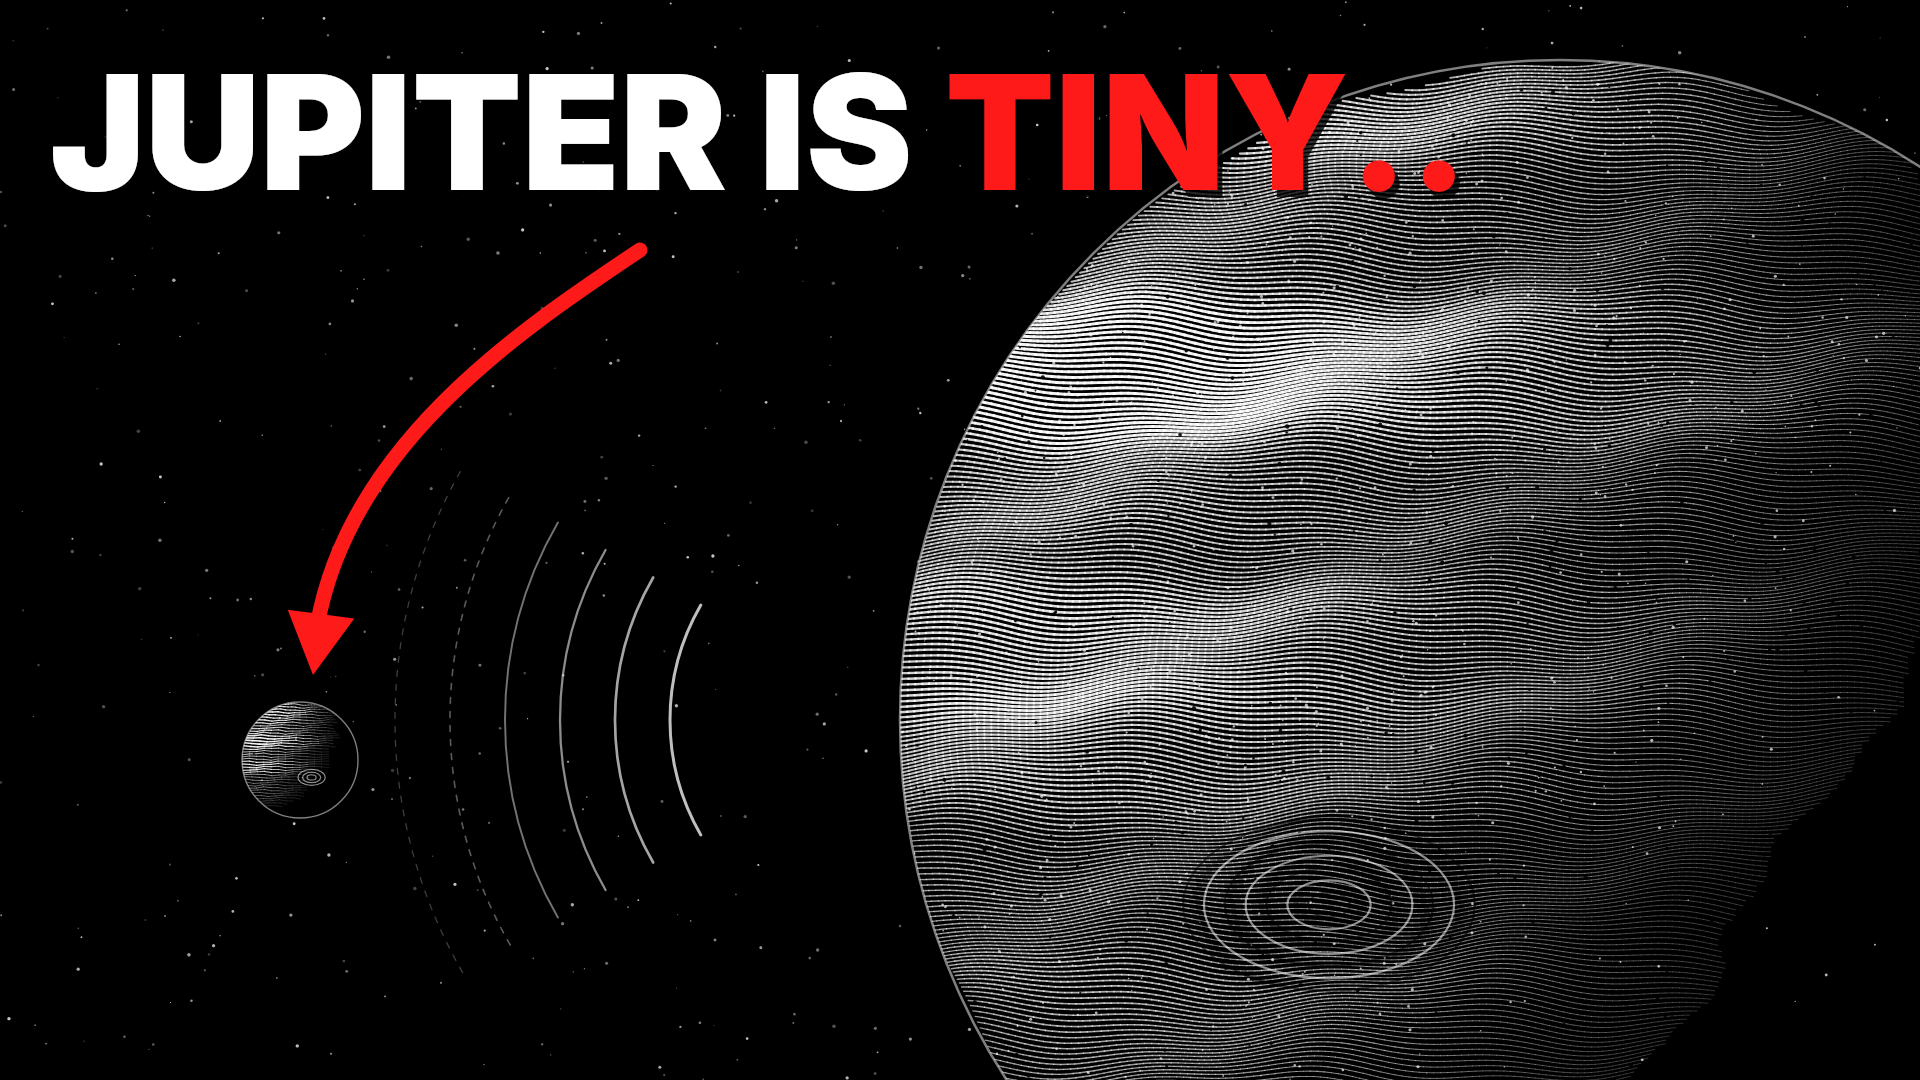
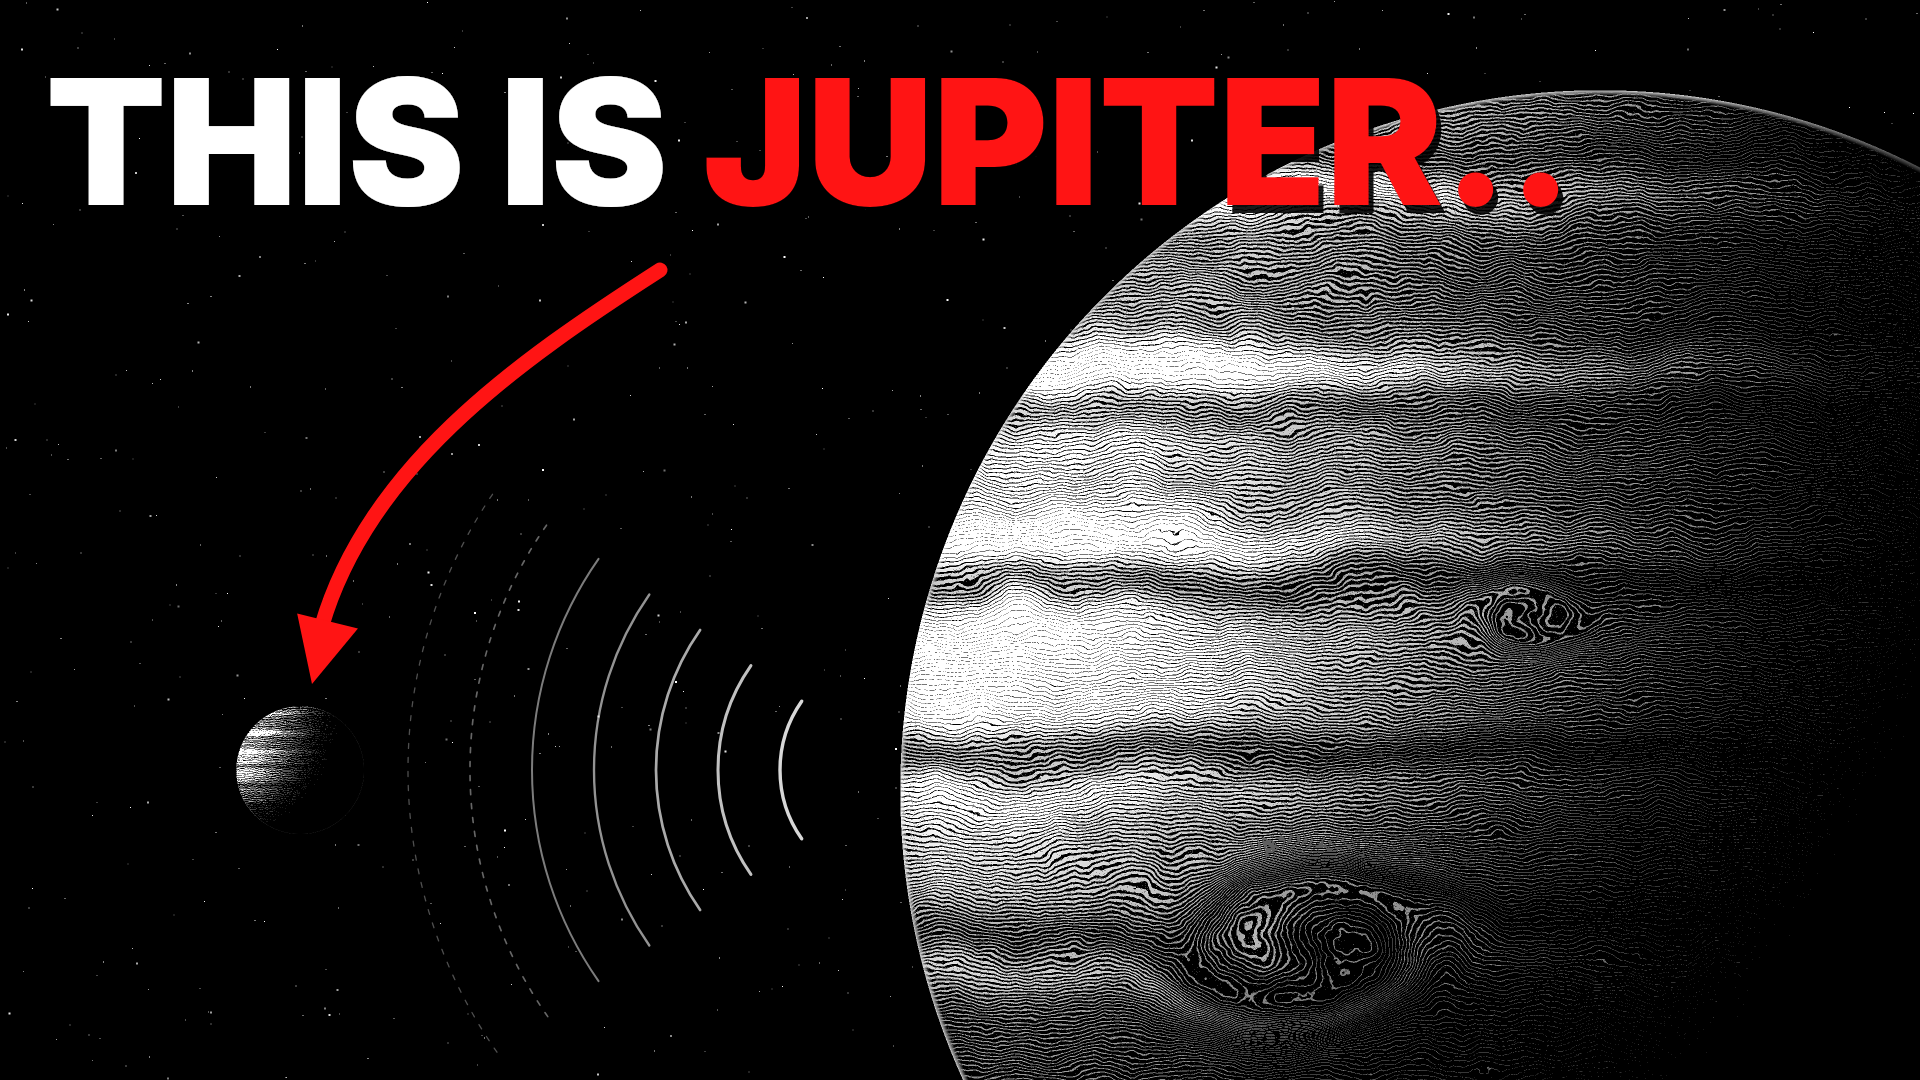
Thumbnail: black-and-white engraving style, THIS IS JUPITER.. headline
Claude-Session: https://claude.ai/code/session_018Px1zPA8yDwwfUeBmCF912

diff --git a/space/thumbnail_doc.py b/space/thumbnail_doc.py
@@ -1,137 +1,162 @@
-"""Thumbnail in black & white engraved style: giant planet vs tiny Jupiter.
+"""Thumbnail in black & white scratchboard-engraving style: giant planet vs tiny Jupiter.
+The planets are rendered as real line engravings: a shaded, turbulent planet is computed per pixel
+(numpy), then turned into flowing ink lines whose thickness follows the brightness.
 Usage: python thumbnail_doc.py OUTDIR"""
 import math
 import os
-import random
 import sys
 
+import numpy as np
 import skia
 
 sys.path.insert(0, os.path.dirname(os.path.abspath(__file__)))
-from cosmos import W, H, P, C, font  # noqa: E402
+from cosmos import W, H, P, font  # noqa: E402
 
-L = (-0.72, -0.5, 0.48)  # light dir (upper-left, toward viewer)
-_n = math.sqrt(sum(v * v for v in L))
-L = tuple(v / _n for v in L)
+rng = np.random.default_rng(5)
 
 
-def engraved_planet(c, cx, cy, r, seed=1, step=5.0, bands=True, storm=None, wscale=1.0):
-    rnd = random.Random(seed)
-    c.save()
-    clip = skia.Path()
-    clip.addCircle(cx, cy, r)
-    c.clipPath(clip, skia.ClipOp.kIntersect, True)
-    c.drawCircle(cx, cy, r, P("#000000"))
-    band_ph = [rnd.uniform(0, 6.28) for _ in range(6)]
-
-    def bright(u, v):
-        z2 = 1 - u * u - v * v
-        if z2 <= 0:
-            return 0.0, 0.0
-        z = math.sqrt(z2)
-        lam = max(0.0, u * L[0] + v * L[1] + z * L[2])
-        b = 0.04 + 1.05 * lam ** 1.35
-        if bands:
-            b *= 0.62 + 0.38 * (0.5 + 0.5 * math.sin(v * 13 + band_ph[0] + 0.6 * math.sin(v * 31 + band_ph[1])))
-        if storm:
-            su, sv, sr = storm
-            d = math.hypot((u - su) / 1.7, v - sv) / sr
-            if d < 1:
-                b *= 0.55 + 0.45 * abs(math.sin(d * 14))
-        return min(1.0, b), z
-
-    y = -r
-    while y < r:
-        v = y / r
-        pts = []
-        nseg = max(12, int(2 * r * math.sqrt(max(0, 1 - v * v)) / 7))
-        half = math.sqrt(max(0.0, 1 - v * v))
-        for k in range(nseg + 1):
-            u = -half + 2 * half * k / nseg
-            wav = 0.012 * math.sin(u * 9 + band_ph[2] + v * 20) + 0.006 * math.sin(u * 23 + band_ph[3])
-            pts.append((u, v + wav))
-        for k in range(nseg):
-            (u1, v1), (u2, v2) = pts[k], pts[k + 1]
-            b, z = bright((u1 + u2) / 2, v)
-            if b < 0.06:
-                continue
-            w = (0.35 + 2.6 * b) * wscale
-            c.drawLine(cx + u1 * r, cy + v1 * r, cx + u2 * r, cy + v2 * r, P("#ffffff", w, 0.35 + 0.6 * b))
-        y += step
-    # stipple + pits
-    for i in range(int(r * r / 90)):
-        u, v = rnd.uniform(-1, 1), rnd.uniform(-1, 1)
-        b, z = bright(u, v)
-        if z <= 0:
-            continue
-        if rnd.random() < b * 0.8:
-            c.drawCircle(cx + u * r, cy + v * r, rnd.uniform(0.6, 1.6) * wscale, P("#ffffff", a=0.7))
-        elif rnd.random() < 0.25:
-            c.drawCircle(cx + u * r, cy + v * r, rnd.uniform(0.8, 2.2) * wscale, P("#000000", a=0.9))
-    if storm:
-        su, sv, sr = storm
-        for k in range(1, 8):
-            rx, ry = r * sr * 1.7 * k / 7, r * sr * k / 7
-            c.drawOval(skia.Rect(cx + su * r - rx, cy + sv * r - ry, cx + su * r + rx, cy + sv * r + ry),
-                       P("#000000" if k % 2 else "#ffffff", 2.2 * wscale, 0.55))
-    c.restore()
-    c.drawCircle(cx, cy, r, P("#ffffff", 2.5 * wscale, 0.5))
+def value_noise(shape, scale, seed):
+    r = np.random.default_rng(seed)
+    gh, gw = int(shape[0] / scale) + 3, int(shape[1] / scale) + 3
+    g = r.random((gh, gw))
+    y = np.arange(shape[0]) / scale
+    x = np.arange(shape[1]) / scale
+    y0, x0 = y.astype(int), x.astype(int)
+    fy, fx = y - y0, x - x0
+    fy, fx = fy * fy * (3 - 2 * fy), fx * fx * (3 - 2 * fx)
+    a = g[y0][:, x0]
+    b = g[y0][:, x0 + 1]
+    c = g[y0 + 1][:, x0]
+    d = g[y0 + 1][:, x0 + 1]
+    top = a + (b - a) * fx[None, :]
+    bot = c + (d - c) * fx[None, :]
+    return top + (bot - top) * fy[:, None]
 
 
-def stars(c):
-    rnd = random.Random(3)
-    for _ in range(700):
-        c.drawCircle(rnd.uniform(0, W), rnd.uniform(0, H), rnd.uniform(0.5, 1.8), P("#ffffff", a=rnd.uniform(0.2, 0.8)))
+def fbm(shape, scale, seed, oct=5):
+    out = np.zeros(shape)
+    amp, tot = 1.0, 0.0
+    for o in range(oct):
+        out += amp * value_noise(shape, max(2, scale / 2 ** o), seed + o)
+        tot += amp
+        amp *= 0.5
+    return out / tot
 
 
-def bold(c, s, x, y, size, color):
-    f = font(size, "Black")
-    c.drawString(s, x + 5, y + 7, f, P("#000000", a=0.8))
-    c.drawString(s, x, y, f, P(color))
-    return f.measureText(s)
+def engrave_planet(img, cx, cy, r, seed, line_px, storms, band_freq=11.0, light=(-0.8, -0.5, 0.35)):
+    """Adds an engraved planet (white ink on black) into img (float HxW, 0..1)."""
+    HH, WW = img.shape
+    x0, x1 = max(0, int(cx - r - 2)), min(WW, int(cx + r + 2))
+    y0, y1 = max(0, int(cy - r - 2)), min(HH, int(cy + r + 2))
+    if x1 <= x0 or y1 <= y0:
+        return
+    ys, xs = np.mgrid[y0:y1, x0:x1].astype(float)
+    u, v = (xs - cx) / r, (ys - cy) / r
+    rr = u * u + v * v
+    inside = rr < 1
+    z = np.sqrt(np.clip(1 - rr, 0, 1))
+    lx, ly, lz = light
+    n = math.sqrt(lx * lx + ly * ly + lz * lz)
+    lam = np.clip((u * lx + v * ly + z * lz) / n, 0, 1)
+    shp = u.shape
+    sc = max(8.0, r / 6)
+    turb = fbm(shp, sc, seed) - 0.5
+    turb2 = fbm(shp, sc / 3, seed + 20) - 0.5
+    # latitude with turbulence; storms swirl it
+    lat = v + 0.06 * turb + 0.02 * turb2
+    lon = u / np.maximum(z, 0.15)
+    storm_dark = np.zeros(shp)
+    for (su, sv, srad, spin) in storms:
+        du, dv = (u - su) / 1.6, v - sv
+        d = np.sqrt(du * du + dv * dv) / srad
+        w = np.exp(-d * d * 1.6)
+        ang = spin * w * 5.0
+        lat = lat + w * (np.sin(np.arctan2(dv, du) + ang) * d * srad * 0.9 - dv * 0.9)
+        storm_dark += w * (0.5 + 0.5 * np.sin(d * 18))
+    bands = 0.5 + 0.5 * np.sin(lat * band_freq * math.pi + 1.3 * np.sin(lat * 23 + 1.0))
+    bands = 0.55 + 0.45 * bands + 0.15 * turb2
+    bright = (0.0 + 1.15 * lam ** 1.7) * bands * (1 - 0.35 * np.clip(storm_dark, 0, 1))
+    bright = np.clip(bright, 0, 1)
+    # engraving: lines follow the warped latitude; thickness ~ brightness
+    phase = (lat * r / line_px + 0.8 * turb2) % 1.0
+    tri = np.abs(phase - 0.5) * 2  # 0 at line centre .. 1 between lines
+    ink = (tri < bright * 0.95).astype(float)
+    # soften + fine stipple grain
+    grain = rng.random(shp)
+    ink = np.where(grain < 0.04 * bright, 1.0, ink)
+    ink = np.where(grain > 1 - 0.05 * (1 - bright), 0.0, ink)
+    ink *= np.clip(0.35 + 0.8 * bright, 0, 1)
+    # rim highlight
+    rim = np.clip((rr - 0.985) / 0.015, 0, 1) * (rr < 1) * np.clip(lam * 2 + 0.2, 0, 1)
+    out = np.where(inside, np.maximum(ink, rim * 0.8), 0)
+    reg = img[y0:y1, x0:x1]
+    img[y0:y1, x0:x1] = np.where(inside, out, reg)
 
 
-def thumb(c):
-    c.clear(C("#000000"))
-    stars(c)
-    # giant planet on the right
-    engraved_planet(c, 1560, 720, 660, seed=7, step=4.6, storm=(-0.35, 0.28, 0.13))
-    # sound-wave-like rings between them
-    for k in range(6):
-        R = 230 + k * 55
+SS = 2
+
+
+def build_art():
+    img = np.zeros((H * SS, W * SS))
+    # stars
+    for _ in range(900):
+        x, y = rng.integers(2, W * SS - 4), rng.integers(2, H * SS - 4)
+        sz = 2 if rng.random() < 0.85 else 4
+        img[y:y + sz, x:x + sz] = rng.uniform(0.4, 1.0)
+    # giant planet (right), tiny Jupiter (left)
+    engrave_planet(img, 1600 * SS, 790 * SS, 700 * SS, seed=3, line_px=4.0 * SS,
+                   storms=[(-0.42, 0.22, 0.16, 1.0), (-0.1, -0.25, 0.07, -1.0), (-0.55, 0.55, 0.06, 1.0)],
+                   band_freq=9.0)
+    engrave_planet(img, 300 * SS, 770 * SS, 64 * SS, seed=9, line_px=1.9 * SS, storms=[(0.25, 0.32, 0.2, 1.0)],
+                   band_freq=6.0)
+    return img
+
+
+def thumb(path_png):
+    art = build_art()
+    rgb = (np.clip(art, 0, 1) * 255).astype(np.uint8)
+    rgba = np.dstack([rgb, rgb, rgb, np.full_like(rgb, 255)])
+    s = skia.Surface(W, H)
+    c = s.getCanvas()
+    c.drawImageRect(skia.Image.fromarray(rgba, colorType=skia.kRGBA_8888_ColorType), skia.Rect(0, 0, W, H),
+                    skia.SamplingOptions(skia.CubicResampler.Mitchell()))
+    # concentric arcs radiating from the giant toward tiny Jupiter
+    for k in range(7):
+        R = 120 + k * 62
         pth = skia.Path()
-        pth.addArc(skia.Rect(900 - R, 720 - R, 900 + R, 720 + R), 150, 60)
-        p = P("#ffffff", 3.0 - k * 0.35, 0.75 - k * 0.1)
-        if k >= 4:
-            p.setPathEffect(skia.DashPathEffect.Make([6, 8], 0))
+        pth.addArc(skia.Rect(900 - R, 770 - R, 900 + R, 770 + R), 145, 70)
+        p = P("#ffffff", max(1.2, 3.4 - k * 0.35), 0.85 - k * 0.09)
+        if k >= 5:
+            p.setPathEffect(skia.DashPathEffect.Make([5, 9], 0))
         c.drawPath(pth, p)
-    # tiny Jupiter on the left
-    engraved_planet(c, 300, 760, 58, seed=2, step=2.6, storm=(0.2, 0.3, 0.16), wscale=0.55)
-    # red hand-drawn arrow toward tiny Jupiter
+    # red hand-drawn arrow
     pth = skia.Path()
-    pth.moveTo(640, 250)
-    pth.cubicTo(520, 330, 340, 450, 315, 640)
-    c.drawPath(pth, P("#ff1a1a", 15))
-    ang = math.atan2(640 - 450, 315 - 340)
-    hx, hy = 313, 675
+    pth.moveTo(660, 270)
+    pth.cubicTo(520, 360, 360, 470, 318, 640)
+    c.drawPath(pth, P("#ff1414", 15))
+    ang = math.atan2(640 - 470, 318 - 360)
+    hx, hy = 312, 684
     head = skia.Path()
-    for i, (dx, dy) in enumerate(((0, 0), (-math.cos(ang - 0.5) * 70, -math.sin(ang - 0.5) * 70),
-                                  (-math.cos(ang + 0.5) * 70, -math.sin(ang + 0.5) * 70))):
-        (head.moveTo if i == 0 else head.lineTo)(hx + dx, hy + dy)
+    head.moveTo(hx, hy)
+    head.lineTo(hx - math.cos(ang - 0.45) * 72, hy - math.sin(ang - 0.45) * 72)
+    head.lineTo(hx - math.cos(ang + 0.45) * 72, hy - math.sin(ang + 0.45) * 72)
     head.close()
-    c.drawPath(head, P("#ff1a1a"))
+    c.drawPath(head, P("#ff1414"))
     # headline
-    x = 50
-    w = bold(c, "JUPITER IS ", x, 190, 160, "#ffffff")
-    bold(c, "TINY..", x + w, 190, 160, "#ff1a1a")
+    f = font(175, "Black")
+    x, y = 46, 205
+    for s_, col in (("THIS IS ", "#ffffff"), ("JUPITER..", "#ff1414")):
+        c.drawString(s_, x + 5, y + 8, f, P("#000000", a=0.9))
+        c.drawString(s_, x, y, f, P(col))
+        x += f.measureText(s_)
+    img = s.makeImageSnapshot()
+    return img
 
 
 if __name__ == "__main__":
     out = sys.argv[1] if len(sys.argv) > 1 else "."
     os.makedirs(out, exist_ok=True)
-    s = skia.Surface(W, H)
-    thumb(s.getCanvas())
-    img = s.makeImageSnapshot()
+    img = thumb(None)
     img.save(os.path.join(out, "thumbnail_1920x1080.png"), skia.kPNG)
     img.resize(1280, 720, skia.SamplingOptions(skia.CubicResampler.Mitchell())).save(
         os.path.join(out, "thumbnail_1280x720.png"), skia.kPNG)
